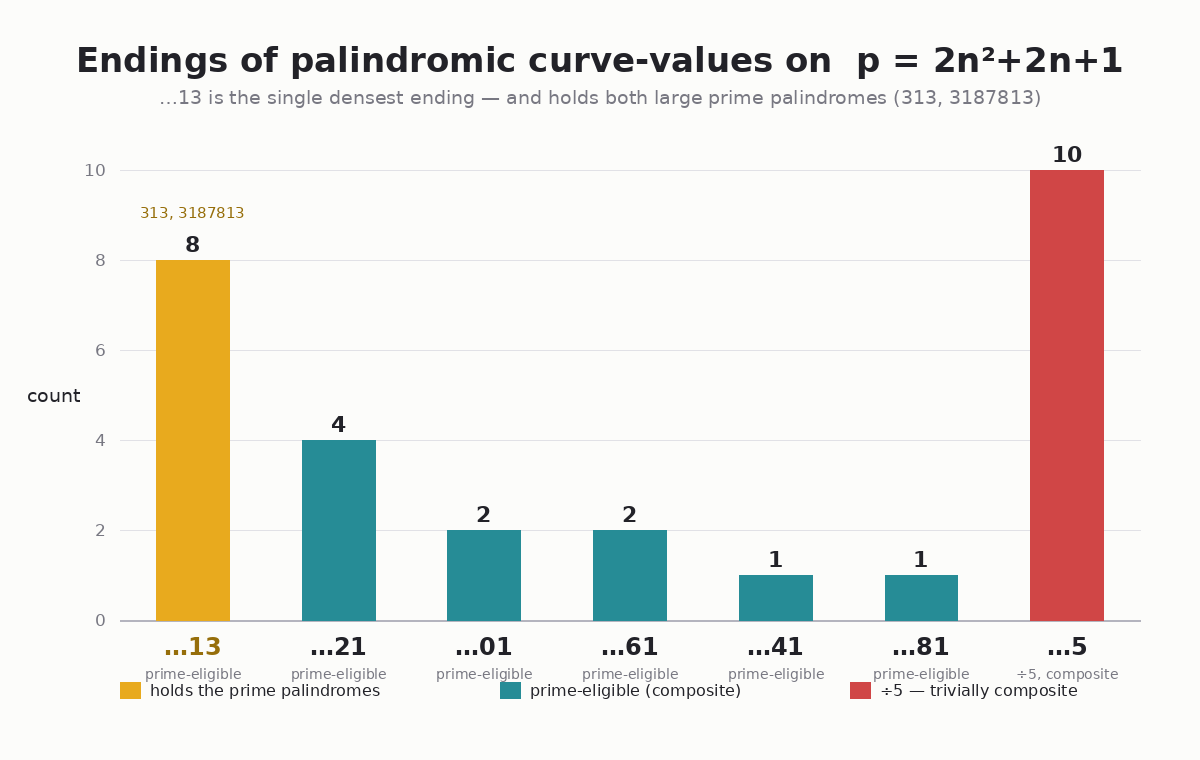
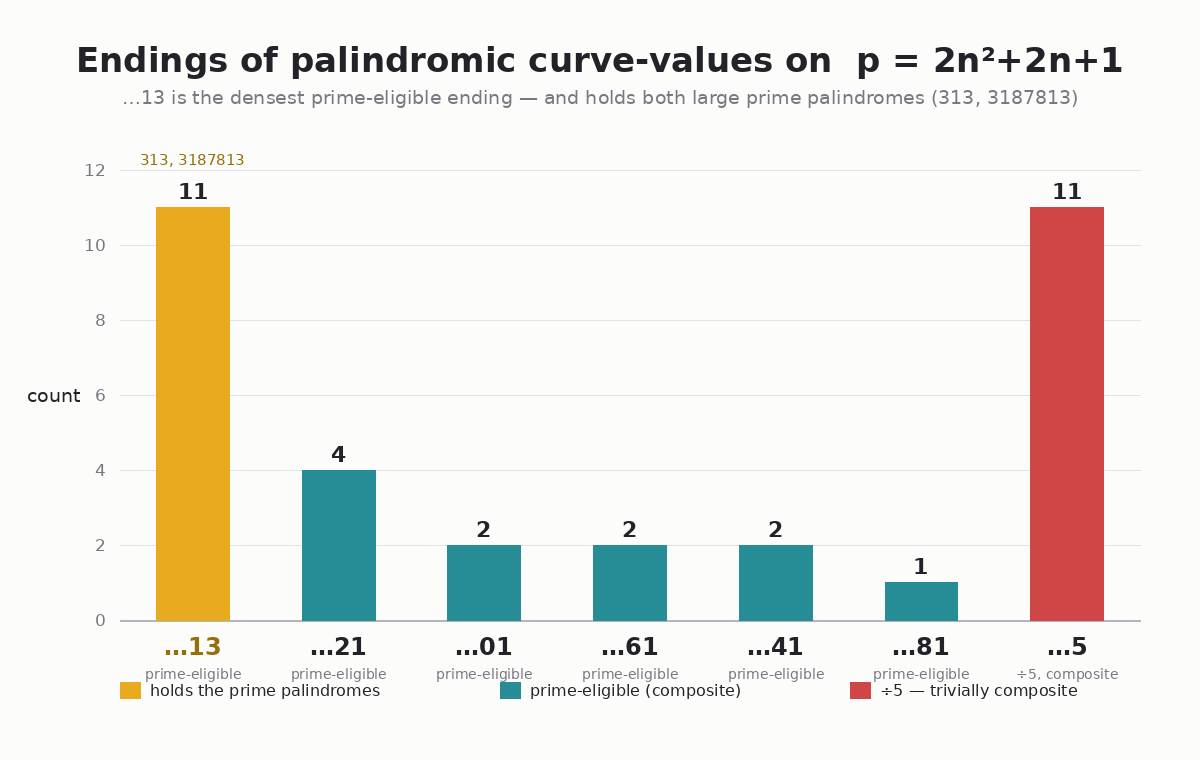
palindrome_insights: fold d=25 into ending corpus (28 -> 33)
The count-preserving d=25 dump (pals_d25.txt) adds five palindromes:
…13 x3, …41 x1, …5 x1. Corpus now 33; complete odd d=7..25 div-5
inclusive plus d=27's three prime-eligible.

- §5: …13 now 11 (was 8), ~2.75x the next; add a d=25-delta table.
  Grouped, the five last-digit-1 endings now only TIE …13 (11 vs 11)
  despite 2x aggregate supply — signal sharpened, not blurred.
- §6: last-digit split now 11/11/11 (was 10/8/10). Added before/after
  columns. Flag the three-way tie as a likely COINCIDENCE at n=33 in a
  sparse Poisson process (§4), not a structural law; durable fact is
  the ~1/3 ÷5 share.
- figure: DATA …13->11, …41->2, …5->11; ymax 10->12; subtitle "densest
  prime-eligible ending"; regenerated palindrome_endings.png.

diff --git a/gen_ending_figure.py b/gen_ending_figure.py
@@ -5,9 +5,9 @@ Build: python3 gen_ending_figure.py  ->  docs/palindrome_endings.png"""
 from PIL import Image, ImageDraw, ImageFont
 
 # (label, count, kind)  kind: 'gold' holds the primes; 'teal' eligible; 'div5'
-DATA = [("…13", 8, "gold"), ("…21", 4, "teal"), ("…01", 2, "teal"),
-        ("…61", 2, "teal"), ("…41", 1, "teal"), ("…81", 1, "teal"),
-        ("…5", 10, "div5")]
+DATA = [("…13", 11, "gold"), ("…21", 4, "teal"), ("…01", 2, "teal"),
+        ("…61", 2, "teal"), ("…41", 2, "teal"), ("…81", 1, "teal"),
+        ("…5", 11, "div5")]
 
 W, H = 1200, 760
 BG = (252, 252, 250); INK = (34, 34, 40); MUT = (120, 120, 130)
@@ -31,13 +31,13 @@ def text(x, y, s, fnt, fill=INK, anchor="la"):
 
 text(W / 2, 40, "Endings of palindromic curve-values on  p = 2n²+2n+1",
      font(34, True), INK, "ma")
-text(W / 2, 86, "…13 is the single densest ending — and holds both large "
-     "prime palindromes (313, 3187813)", font(19), MUT, "ma")
+text(W / 2, 86, "…13 is the densest prime-eligible ending — and holds both "
+     "large prime palindromes (313, 3187813)", font(19), MUT, "ma")
 
 # axes
 ax_l, ax_r = 120, W - 60
 A_t, A_b = 170, 620
-ymax = 10
+ymax = 12
 def BY(c): return A_b - c / ymax * (A_b - A_t)
 for c in range(0, ymax + 1, 2):
     d.line([ax_l, BY(c), ax_r, BY(c)], fill=GRID)

diff --git a/docs/palindrome_insights.md b/docs/palindrome_insights.md
@@ -5,11 +5,12 @@ what is proven by construction, what is conjectured, and the structure in
 between. Companion to [`STATE_OF_THE_SEARCH.md`](STATE_OF_THE_SEARCH.md)
 and [`PROJECT_OVERVIEW.md`](PROJECT_OVERVIEW.md).
 
-Corpus: 28 palindromic curve-values on record — the small primes, the
-complete odd d = 7…23 set (from `hunt.c` / `hunt_noopt`, div-5 inclusive),
-and d = 27's three prime-eligible ones. (d = 25's five are not yet
-value-dumped; d = 27's div-5 palindromes were skipped by the optimized
-binary — see §9.)
+Corpus: 33 palindromic curve-values on record — the small primes, the
+complete odd d = 7…25 set (from `hunt.c` / `hunt_noopt`, div-5 inclusive),
+and d = 27's three prime-eligible ones. (d = 25's five were value-dumped
+2026-07-06 by the count-preserving `hunt_noopt`, div-5 inclusive — see
+[`pals_d25.txt`](../pals_d25.txt); d = 27's div-5 palindromes were skipped
+by the optimized binary — see §9.)
 
 ---
 
@@ -108,46 +109,63 @@ Two unrelated methods agreeing is the ground truth.
 ## 5. The ending signature — `…13` is the densest
 
 ![Ending distribution: …13 is the densest prime-eligible ending and holds
-313 and 3187813; the div-5 (…5) group is the single largest, all
-composite](palindrome_endings.png)
+313 and 3187813; after d = 25 the div-5 (…5) group ties …13 as the
+largest, all composite](palindrome_endings.png)
 
 Among prime-eligible palindromes (last digit 1 or 3), the two-digit
 endings are far from uniform:
 
 | ending (→ leading) | count |
 |---|---|
-| **`…13`** (`31…`) | **8** ← densest by far |
+| **`…13`** (`31…`) | **11** ← densest by far |
 | `…21` (`12…`) | 4 |
 | `…01` (`10…`) | 2 |
 | `…61` (`16…`) | 2 |
-| `…41` (`14…`) | 1 |
+| `…41` (`14…`) | 2 |
 | `…81` (`18…`) | 1 |
 
-`…13` is the single most common ending — ~2× the next. It comes from the
-curve's ending supply: `…13` occurs 10× per period of 50 in n, versus 4×
-for each other ending (last-digit-3 funnels into the *one* ending `13`,
-while last-digit-1 spreads across five). Grouped 1-vs-5, the five "even-1"
-endings only just edge `13` (10 vs 8) — far less than their 2× aggregate
-supply, because a palindrome's leading digits mirror its ending and
-Benford favours leading `1`. Net: **`13` is over-represented per ending;**
-the famous primes `313` and `3187813` are both `31…13`.
+**What d = 25 added** (count-preserving dump, 2026-07-06) — it *sharpened*
+the signal rather than blurring it: three of its five palindromes landed
+in the densest `…13` channel.
+
+| ending | before (d ≤ 27) | + d = 25 | now |
+|---|---|---|---|
+| `…13` | 8 | +3 | **11** |
+| `…41` | 1 | +1 | 2 |
+| `…5` (÷5) | 10 | +1 | 11 |
+
+`…13` is the single most common prime-eligible ending — now **~2.75× the
+next**, and d = 25 alone added three more. It comes from the curve's
+ending supply: `…13` occurs 10× per period of 50 in n, versus 4× for each
+other ending (last-digit-3 funnels into the *one* ending `13`, while
+last-digit-1 spreads across five). Grouped, the five "last-digit-1"
+endings now only **tie** `13` (11 vs 11) — despite carrying 2× the
+aggregate supply — because a palindrome's leading digits mirror its ending
+and Benford favours leading `1`. Net: **`13` is over-represented per
+ending, more so after d = 25;** the famous primes `313` and `3187813` are
+both `31…13`.
 
 ---
 
 ## 6. Div-5 palindromes — a third of the population
 
-Of the 28 palindromic curve-values, the last-digit split is:
+Of the 33 palindromic curve-values, the last-digit split is a dead heat:
 
-| last digit | count | note |
-|---|---|---|
-| 1 (`1…1`) | 10 | prime-eligible |
-| 3 (`31…13`) | 8 | prime-eligible |
-| **5 (`5…5`)** | **10** | **÷5 — trivially composite** |
+| last digit | of 28 (d ≤ 27) | of 33 (+ d = 25) | note |
+|---|---|---|---|
+| 1 (`1…1`) | 10 | **11** | prime-eligible |
+| 3 (`31…13`) | 8 | **11** | prime-eligible |
+| **5 (`5…5`)** | 10 | **11** | **÷5 — trivially composite** |
 
-**~36% end in 5** (`5258525`, `5649436330336349465`, …) — composite on
-sight. Some odd d (11, 19, 23) produce *only* div-5 palindromes. These
-are exactly what the skip-optimized `hunt` drops (§9); they are irrelevant
-to the conjecture but real members of the palindrome population.
+Folding in d = 25 tips the split to a clean **11 / 11 / 11**. That tidy
+three-way tie is almost certainly a **coincidence** — at n = 33 in a
+sparse, near-constant-mean Poisson process (§4) there is no structural
+reason the ÷5 group should track the 1- and 3-ending groups, and the next
+odd d will likely break it. The durable fact is the ÷5 share: **~1/3 end
+in 5** (`5258525`, `5649436330336349465`, …) — composite on sight. Some
+odd d (11, 19, 23) produce *only* div-5 palindromes. These are exactly
+what the skip-optimized `hunt` drops (§9); they are irrelevant to the
+conjecture but real members of the palindrome population.
 
 ---
 
